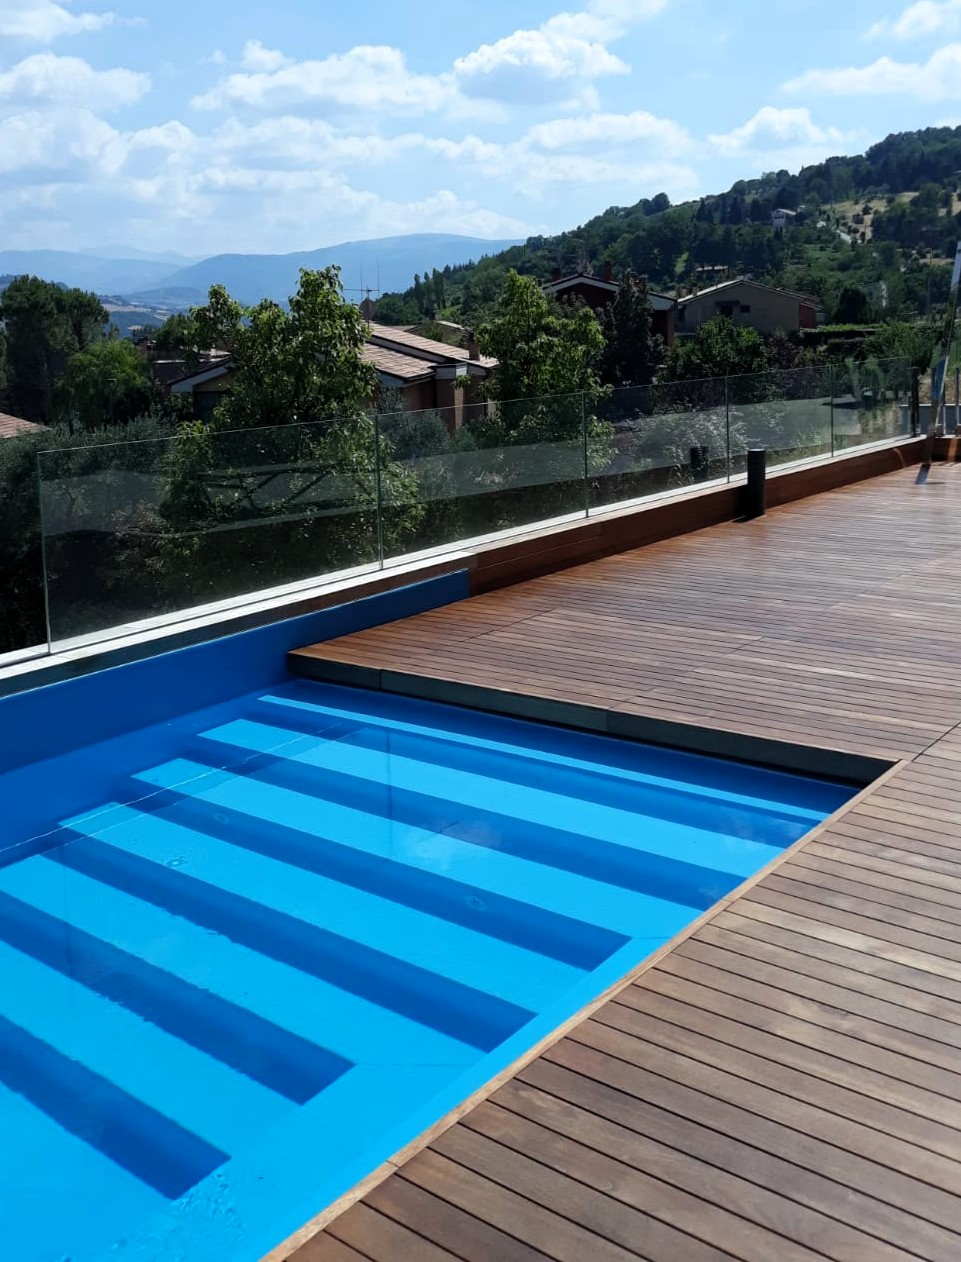
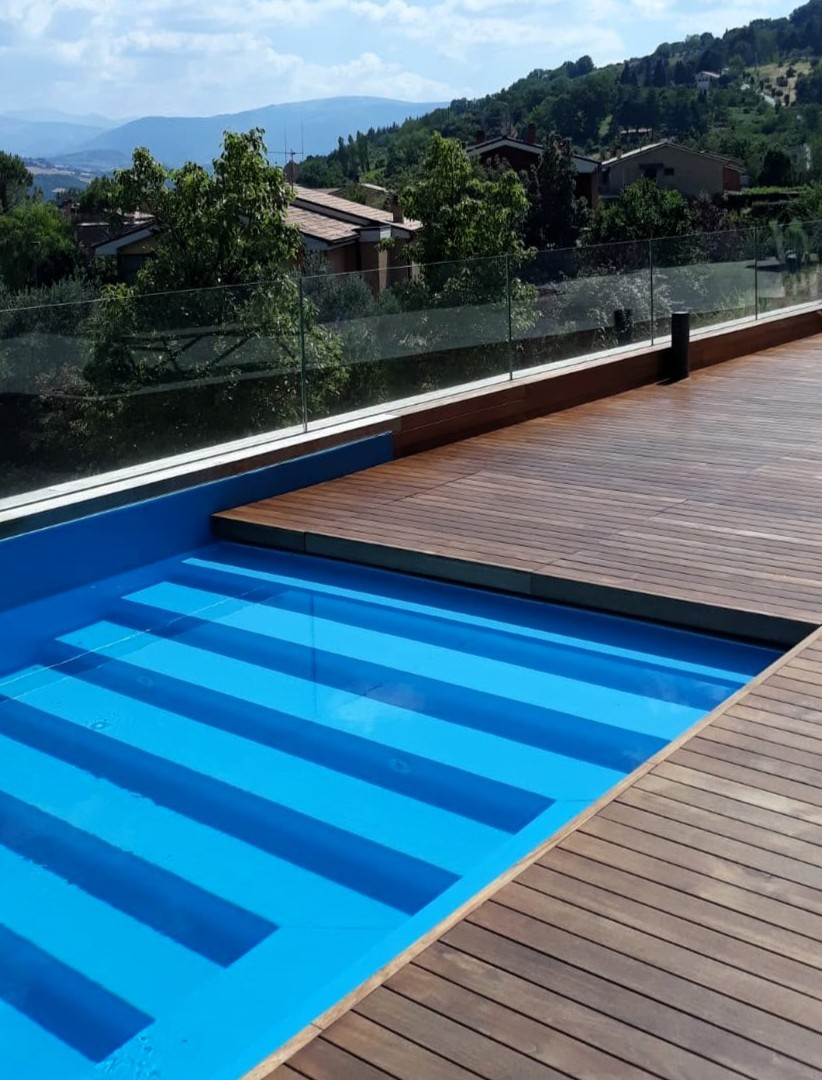
Rework portfolio into two-column split layout, tighten spacing
Replace the blurred-backdrop carousel with a text-left / full-photo-right
split: photos show uncropped (object-fit contain) on a background that
matches the text panel, so there is no visible seam. Remove the gradient
overlay that was tinting only the photo column. Reduce section padding and
container height to cut the empty space above portrait photos. Recrop the
hillside pool lead image.

diff --git a/Broccoliniparquet/index.html b/Broccoliniparquet/index.html
@@ -503,11 +503,23 @@
         /* ── PORTFOLIO SLIDER ────────────────────── */
         .portfolio-section {
             background: var(--dark);
-            padding: 6rem 0 0;
+            padding: 3rem 0 5rem;
+        }
+
+        .portfolio-split {
+            display: flex;
+            align-items: stretch;
+            min-height: 68vh;
         }
 
         .portfolio-inner {
-            padding: 0 4.5rem 3rem;
+            width: 36%;
+            min-width: 320px;
+            flex-shrink: 0;
+            padding: 0 2rem 0 4.5rem;
+            display: flex;
+            flex-direction: column;
+            justify-content: center;
         }
 
         .portfolio-inner .section-label { color: var(--accent); }
@@ -526,10 +538,10 @@
 
         .slider-container {
             position: relative;
-            height: 88vh;
+            flex: 1;
             min-height: 500px;
             overflow: hidden;
-            background: #0a0804;
+            background: var(--dark);
         }
 
         .slide {
@@ -543,14 +555,7 @@
         }
         .slide.active { opacity: 1; }
 
-        .slide-blur {
-            position: absolute;
-            inset: -30px;
-            background-size: cover;
-            background-position: center;
-            filter: blur(28px) brightness(0.45) saturate(0.7);
-            transform: scale(1.05);
-        }
+        .slide-blur { display: none; }
 
         .slide-img {
             position: relative;
@@ -558,19 +563,13 @@
             max-width: 100%;
             max-height: 100%;
             width: auto;
-            height: 100%;
+            height: auto;
             object-fit: contain;
             display: block;
             filter: contrast(1.07) saturate(1.15) brightness(1.04);
         }
 
-        .slider-overlay {
-            position: absolute;
-            inset: 0;
-            background: linear-gradient(to top, rgba(0,0,0,0.35) 0%, transparent 50%);
-            z-index: 1;
-            pointer-events: none;
-        }
+        .slider-overlay { display: none; }
 
         .slide-counter {
             position: absolute;
@@ -920,8 +919,9 @@
             .service-row { grid-template-columns: 1fr; gap: 0.5rem; }
             .service-title { font-size: 2.2rem; }
 
-            .portfolio-inner { padding: 0 1.5rem 2.5rem; }
-            .slider-container { height: 90vw; min-height: 400px; }
+            .portfolio-split { flex-direction: column; min-height: 0; }
+            .portfolio-inner { width: 100%; min-width: 0; padding: 0 1.5rem 2rem; }
+            .slider-container { flex: none; height: 90vw; min-height: 400px; }
             .slide-btn { width: 2.4rem; height: 2.4rem; font-size: 1.1rem; }
 
             .products-header { flex-direction: column; align-items: flex-start; gap: 1rem; }
@@ -1057,6 +1057,7 @@
 
 <!-- ── PORTFOLIO SLIDER ──────────────────────────────────────── -->
 <section class="portfolio-section" id="portfolio">
+  <div class="portfolio-split">
     <div class="portfolio-inner">
         <p class="section-label">Lavori eseguiti</p>
         <h2 class="portfolio-title">Alcuni dei nostri<br><em>interventi recenti</em></h2>
@@ -1123,6 +1124,7 @@
         <div class="slide-indicators" id="slideIndicators"></div>
         <span class="slide-counter" id="slideCounter"></span>
     </div>
+  </div>
 </section>
 
 
